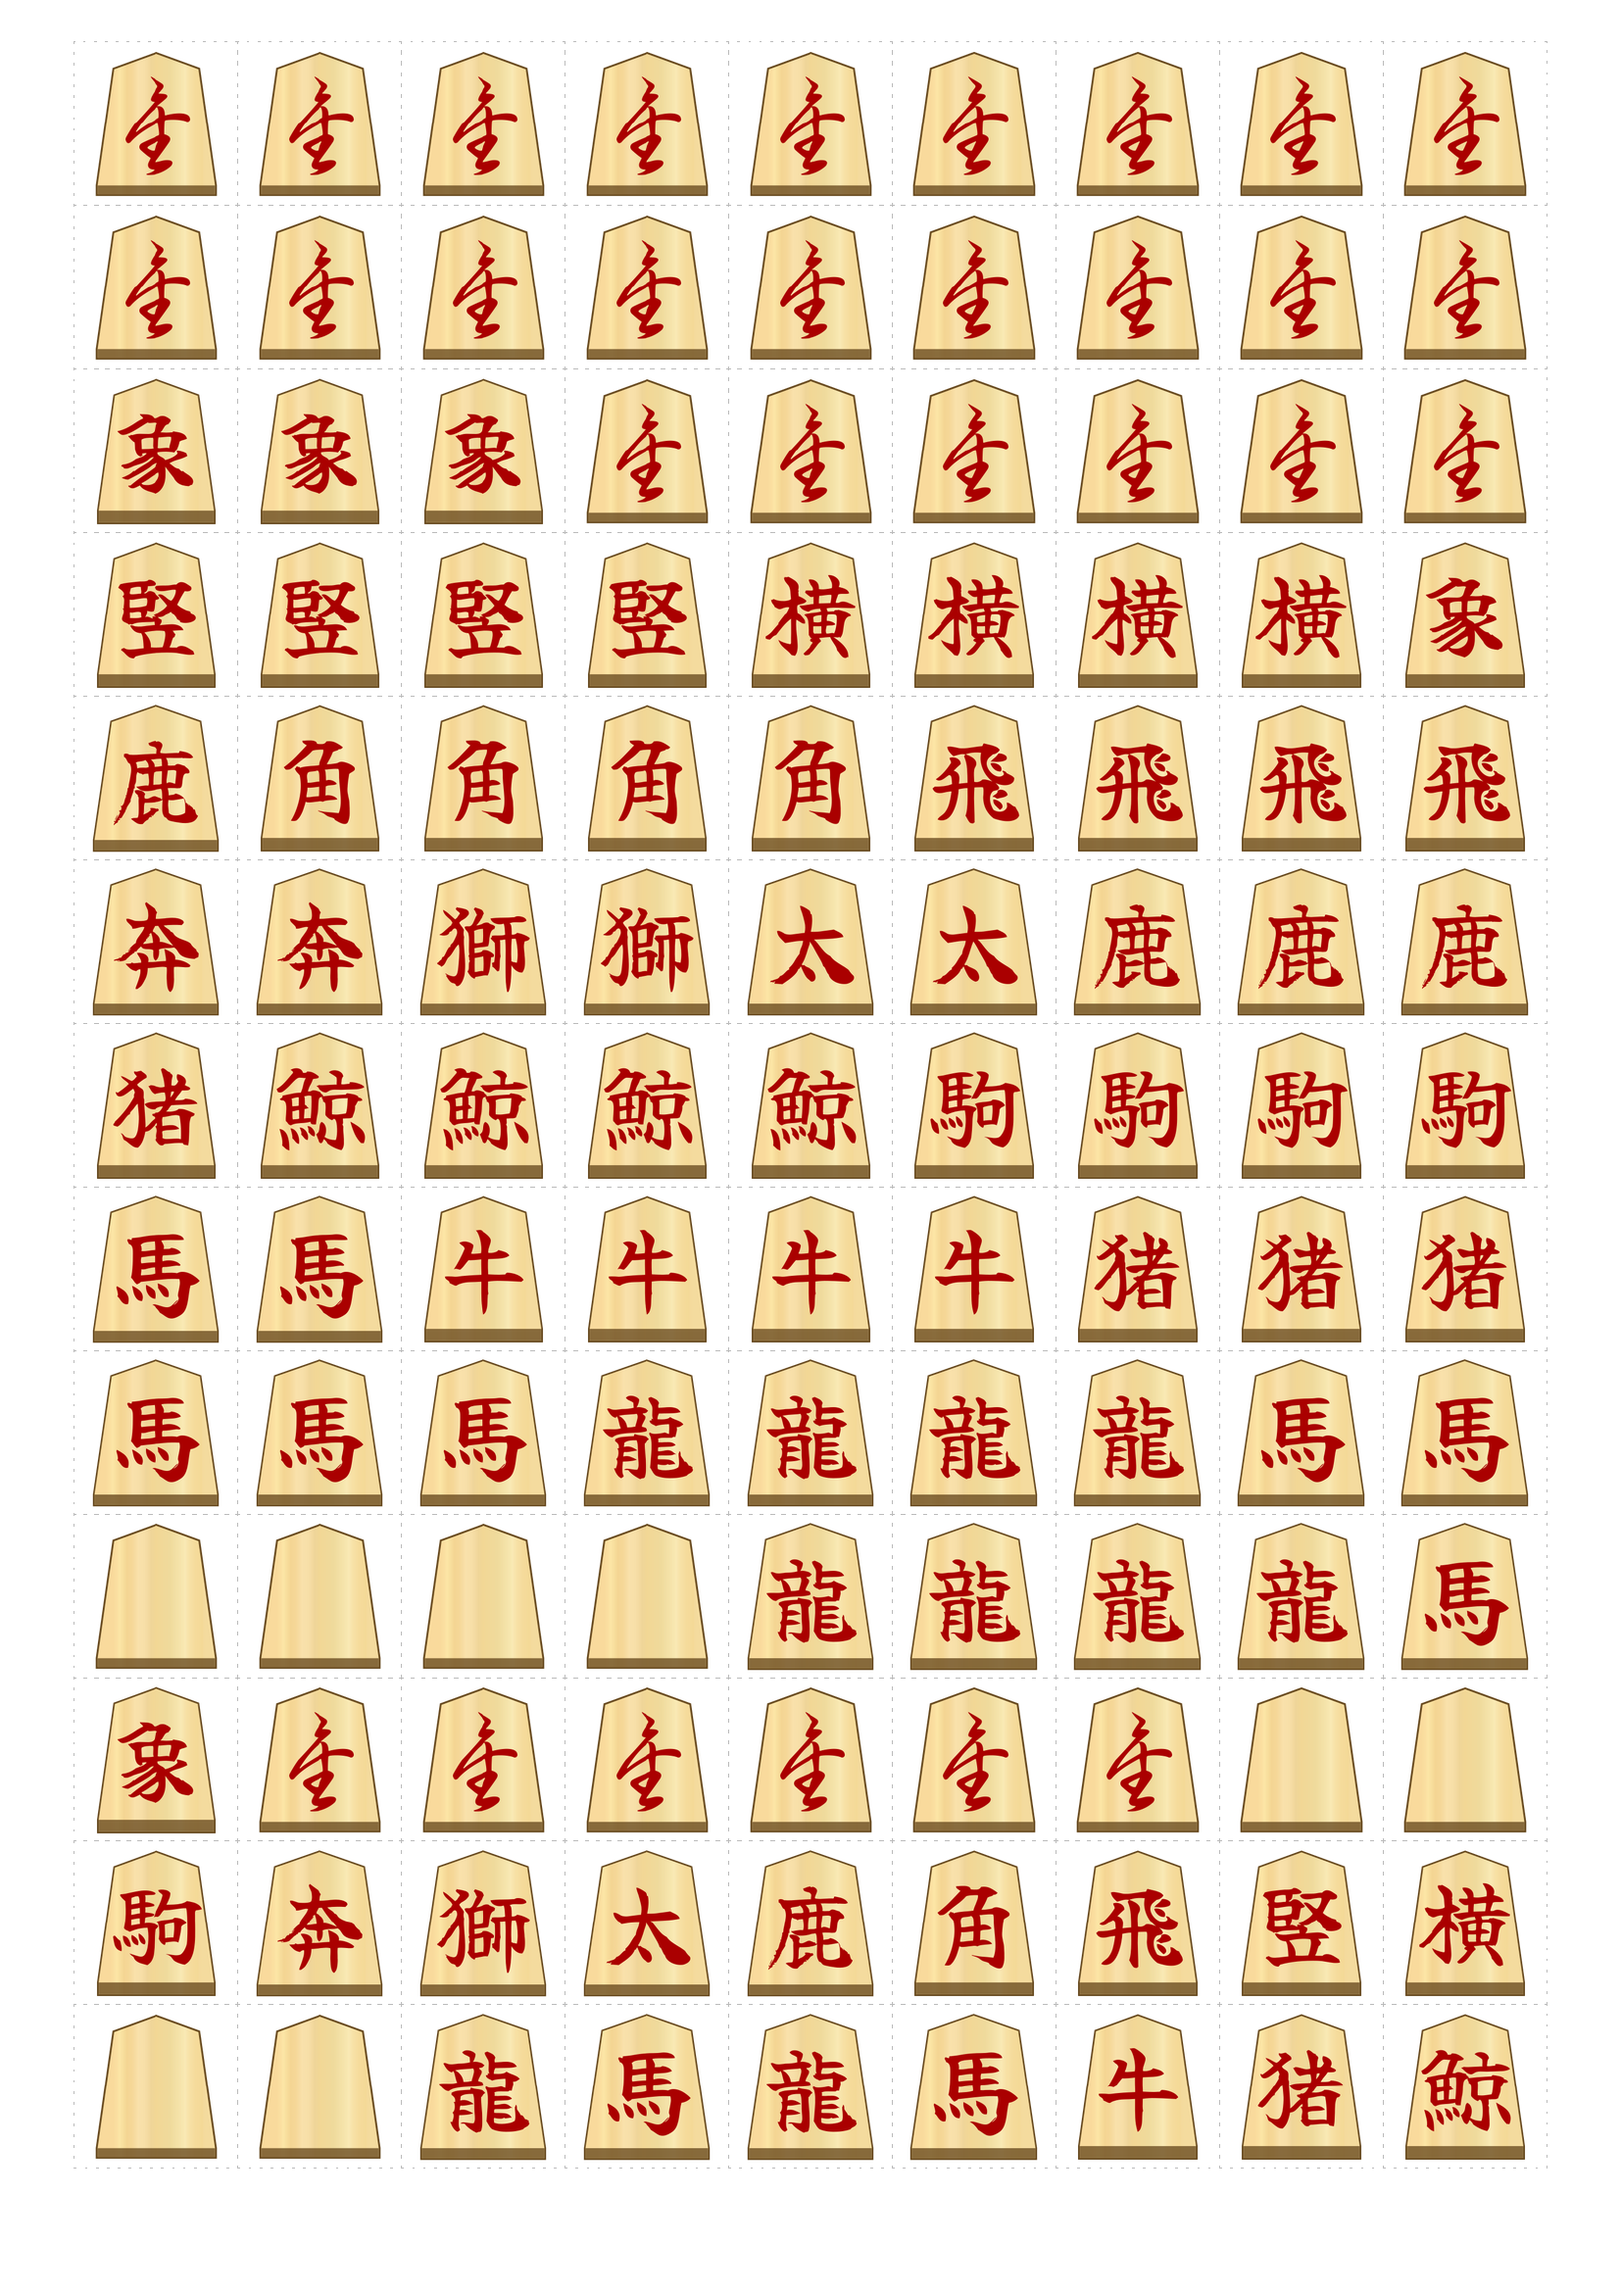
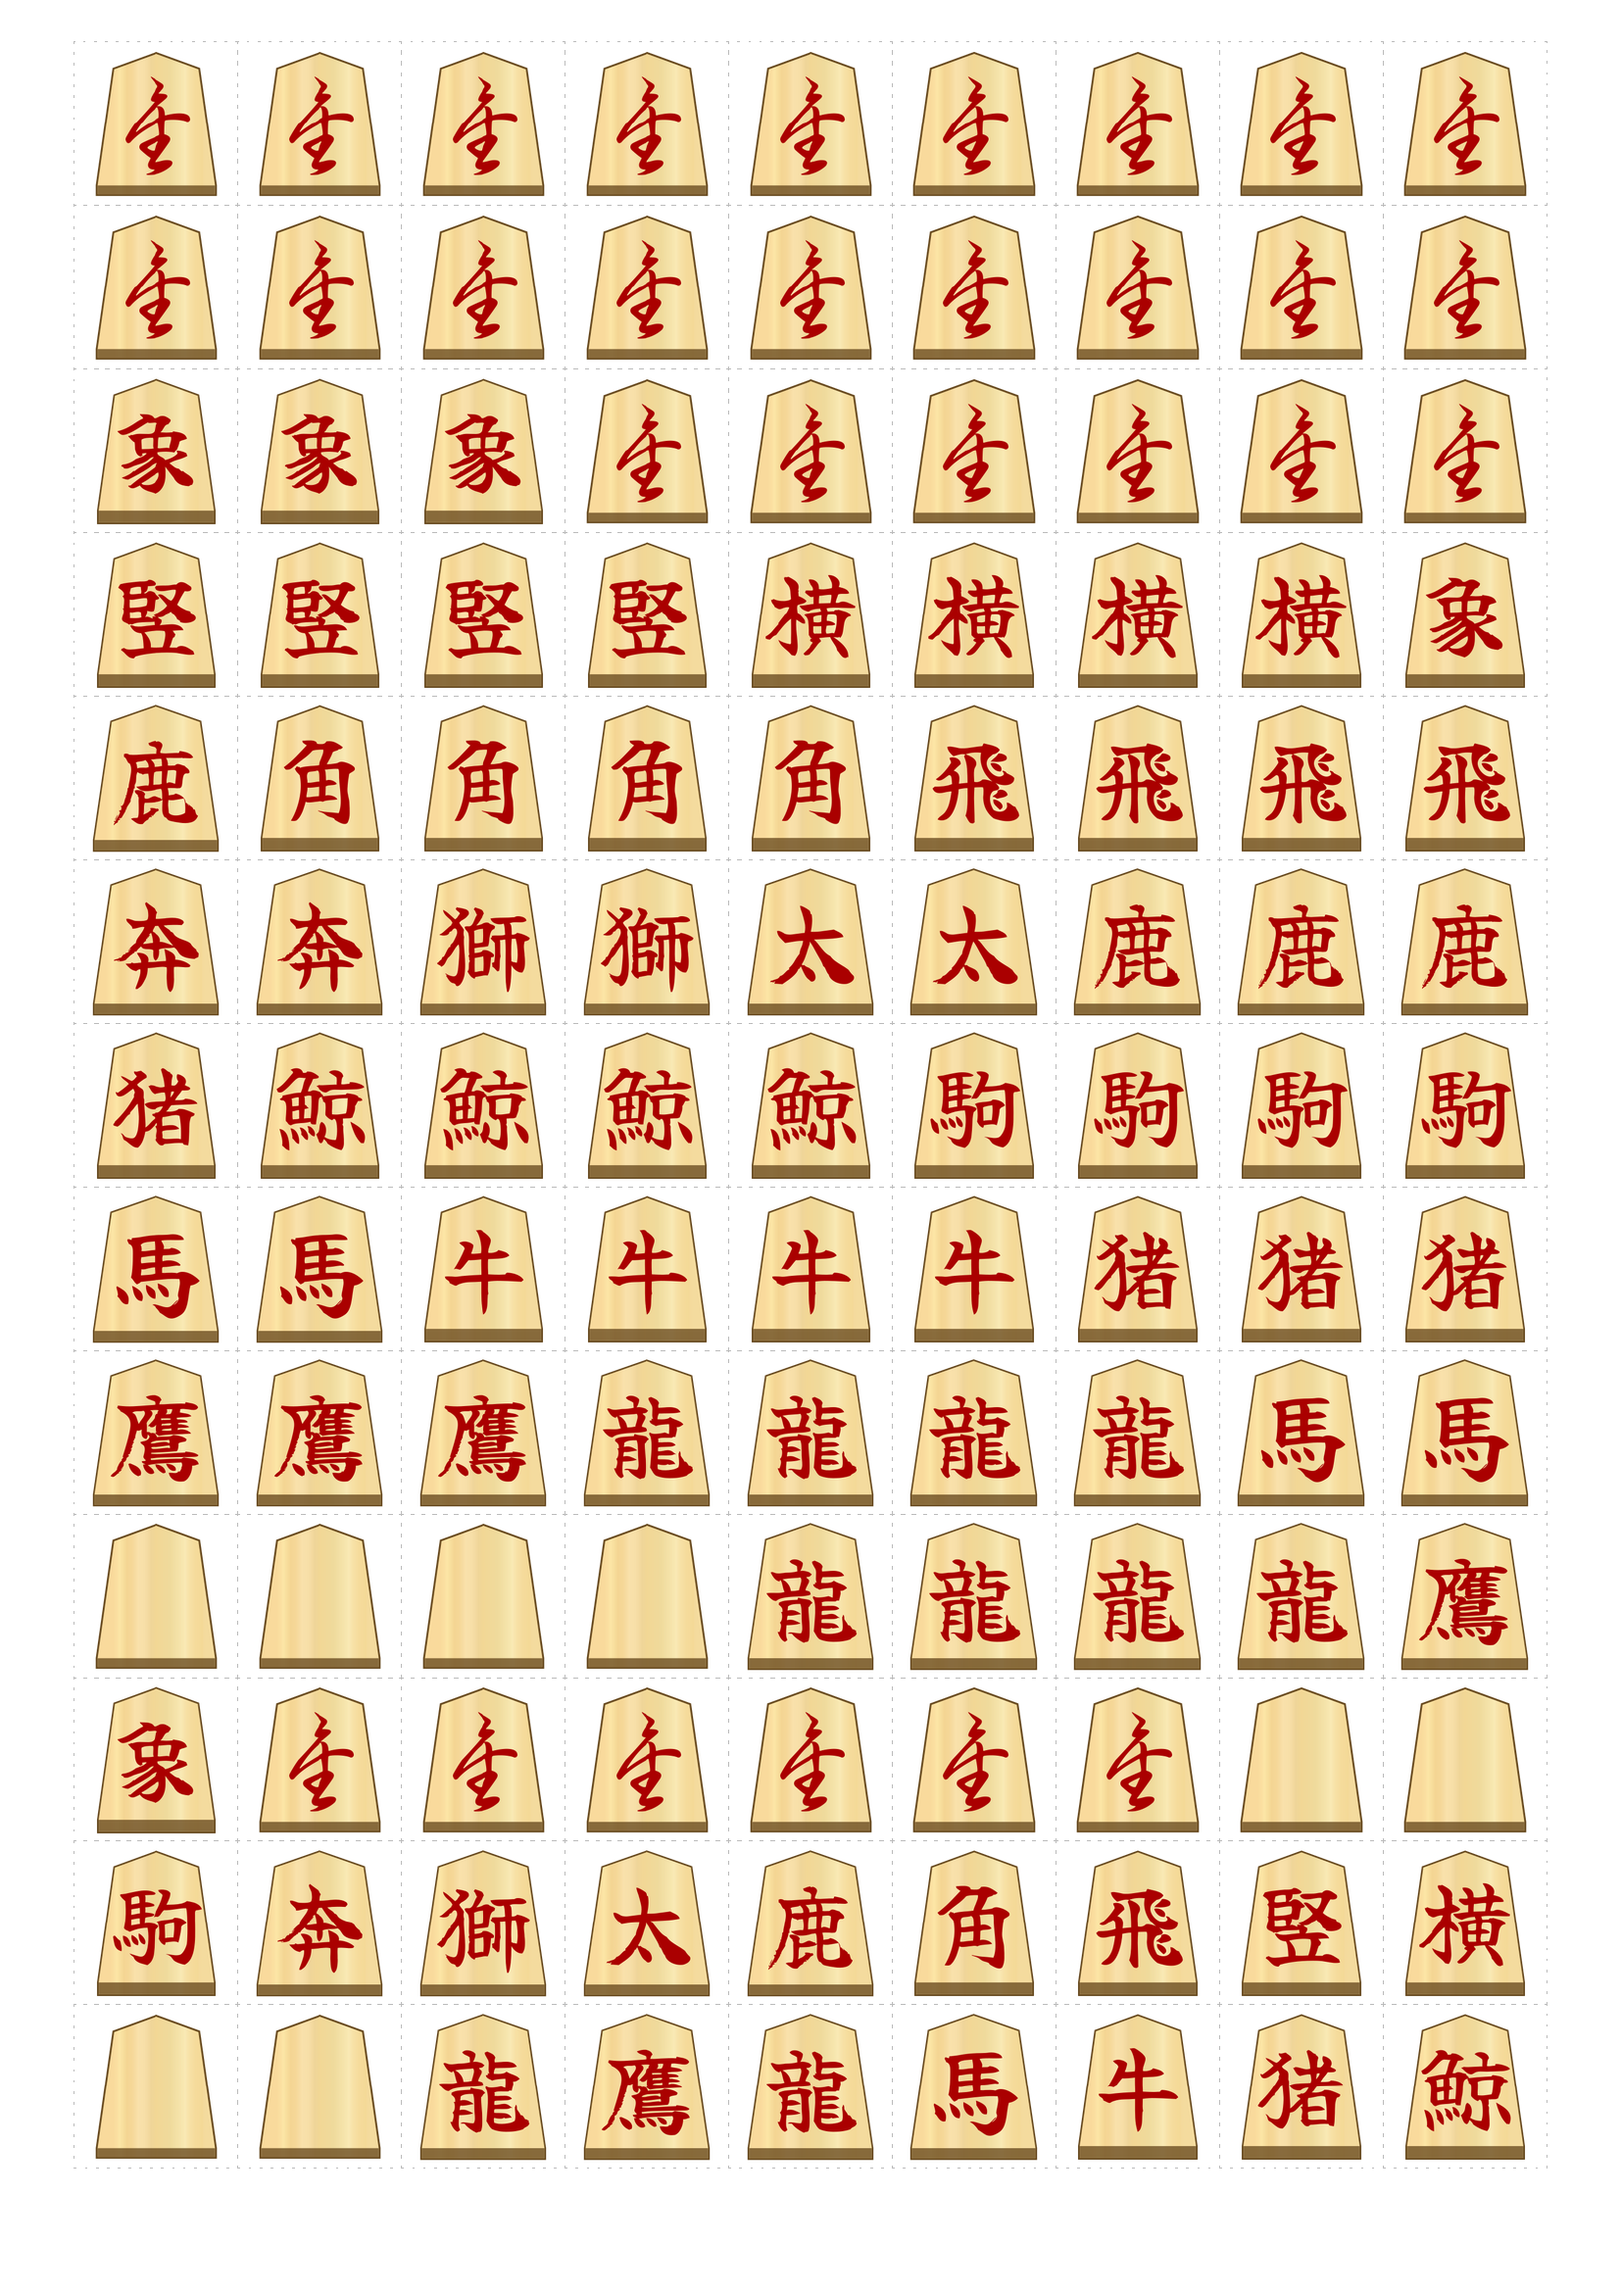
Fix Dragon Horse back: 0_FALCON (Horned Falcon) not 0_HORSEPROMOTED

diff --git a/build_pieces.py b/build_pieces.py
@@ -42,7 +42,7 @@ PIECES = [
     ("Верт.ходок",   "0_VERTICALMOVER",  "0_OX",                2),
     ("Слон",         "0_BISHOP",         "0_HORSEPROMOTED",     2),
     ("Ладья",        "0_ROOK",           "0_DRAGONPROMOTED",    2),
-    ("Дракон-конь",  "0_HORSE",          "0_HORSEPROMOTED",     2),
+    ("Дракон-конь",  "0_HORSE",          "0_FALCON",            2),
     ("Дракон-кор.",  "0_DRAGON",         "0_DRAGONPROMOTED",    2),
     ("Своб.кор.",    "0_QUEEN",          None,                  1),
     ("Лев",          "0_LION",           None,                  1),
